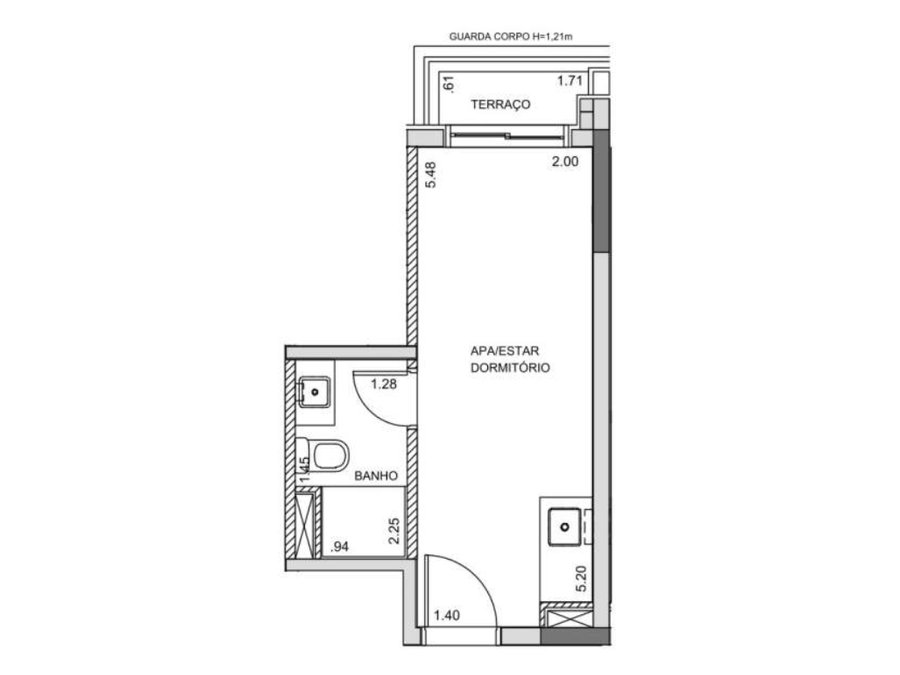
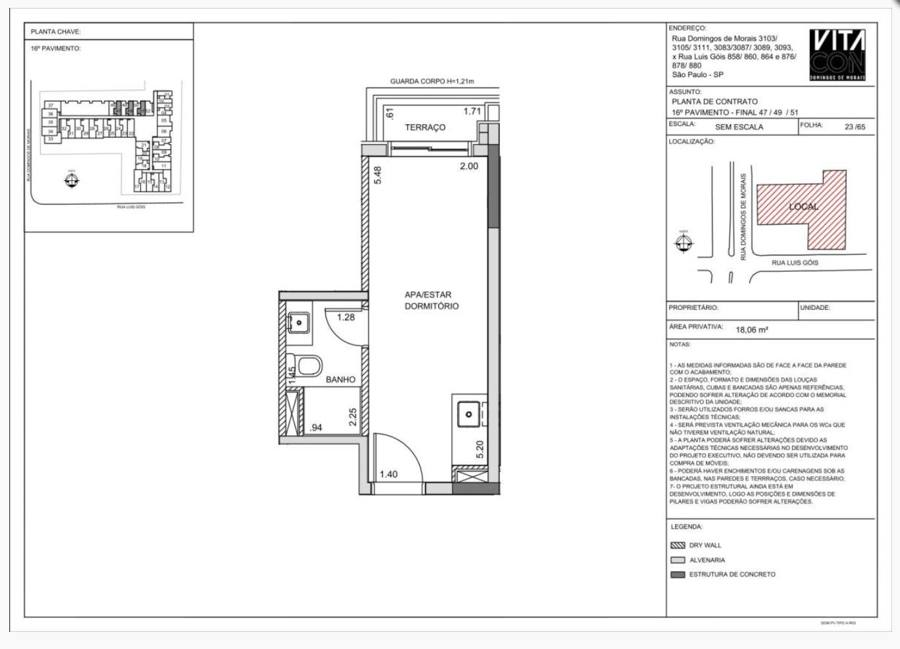
Atualiza unidades disponiveis do Vitacon Domingos de Morais (428, 627, 906, 1331, 1651)

Changed region(s): [[0.0, 0.0308, 0.9956, 0.9861], [0.9022, 0.9553, 0.9644, 0.9861], [0.9956, 0.0, 1.0, 0.0308]]

diff --git a/index.html b/index.html
@@ -714,49 +714,57 @@ footer{ background:var(--ink); color:rgba(255,255,255,0.75); padding:52px 0 28px
 
       <div class="unit-grid">
         <div class="unit-card" data-dest="R2V" data-quartos="1" data-suites="0" data-vagas="0" data-type="studio">
-          <img class="unit-plan" src="dm-plan104.jpg" alt="Planta Unidade 104 Vitacon Domingos de Morais" loading="lazy">
+          <img class="unit-plan" src="dm-plan428.jpg" alt="Planta Unidade 428 Vitacon Domingos de Morais" loading="lazy">
           <div class="unit-body">
-            <div class="unit-top"><span class="unit-type">R2V · 18,72 m²</span><span class="unit-badge">3% off</span></div>
-            <p class="unit-num">Unidade 104</p>
+            <div class="unit-top"><span class="unit-type">R2V · 30,25 m²</span><span class="unit-badge">10% off</span></div>
+            <p class="unit-num">Unidade 428</p>
             <p class="unit-flag">Studio com terraço</p>
-            <p class="unit-old">R$ 385.379,13</p>
-            <p class="unit-new">R$ 373.817,76</p>
-            <a class="unit-cta" href="https://wa.me/5511982380332?text=Quero%20saber%20mais%20sobre%20a%20Unidade%20104%20do%20Vitacon%20Domingos%20de%20Morais" target="_blank" rel="noopener">Quero saber mais</a>
+            <p class="unit-old">R$ 511.443,94</p>
+            <p class="unit-new">R$ 460.299,55</p>
+            <a class="unit-cta" href="https://wa.me/5511982380332?text=Quero%20saber%20mais%20sobre%20a%20Unidade%20428%20do%20Vitacon%20Domingos%20de%20Morais" target="_blank" rel="noopener">Quero saber mais</a>
           </div>
         </div>
         <div class="unit-card" data-dest="R2V" data-quartos="1" data-suites="0" data-vagas="0" data-type="studio">
-          <img class="unit-plan" src="dm-plan430.jpg" alt="Planta Unidade 430 Vitacon Domingos de Morais" loading="lazy">
+          <img class="unit-plan" src="dm-plan627.jpg" alt="Planta Unidade 627 Vitacon Domingos de Morais" loading="lazy">
           <div class="unit-body">
-            <div class="unit-top"><span class="unit-type">R2V · 30,25 m²</span><span class="unit-badge">8% off</span></div>
-            <p class="unit-num">Unidade 430</p>
-            <a class="unit-link" href="30,25m2.png" target="_blank" rel="noopener">Ver planta decorada ↗</a>
-            <p class="unit-flag">Terraço amplo</p>
-            <p class="unit-old">R$ 510.321,23</p>
-            <p class="unit-new">R$ 469.495,53</p>
-            <a class="unit-cta" href="https://wa.me/5511982380332?text=Quero%20saber%20mais%20sobre%20a%20Unidade%20430%20do%20Vitacon%20Domingos%20de%20Morais" target="_blank" rel="noopener">Quero saber mais</a>
+            <div class="unit-top"><span class="unit-type">R2V · 30,39 m²</span><span class="unit-badge">10% off</span></div>
+            <p class="unit-num">Unidade 627</p>
+            <p class="unit-flag">Studio com terraço</p>
+            <p class="unit-old">R$ 518.920,57</p>
+            <p class="unit-new">R$ 467.028,51</p>
+            <a class="unit-cta" href="https://wa.me/5511982380332?text=Quero%20saber%20mais%20sobre%20a%20Unidade%20627%20do%20Vitacon%20Domingos%20de%20Morais" target="_blank" rel="noopener">Quero saber mais</a>
           </div>
         </div>
         <div class="unit-card" data-dest="R2V" data-quartos="1" data-suites="0" data-vagas="0" data-type="studio">
-          <img class="unit-plan" src="dm-plan441.jpg" alt="Planta Unidade 441 Vitacon Domingos de Morais" loading="lazy">
+          <img class="unit-plan" src="dm-plan906.jpg" alt="Planta Unidade 906 Vitacon Domingos de Morais" loading="lazy">
           <div class="unit-body">
-            <div class="unit-top"><span class="unit-type">R2V · 18,06 m²</span><span class="unit-badge">3% off</span></div>
-            <p class="unit-num">Unidade 441</p>
-            <a class="unit-link" href="18,06M2.png" target="_blank" rel="noopener">Ver planta decorada ↗</a>
+            <div class="unit-top"><span class="unit-type">R2V · 32,98 m²</span><span class="unit-badge">10% off</span></div>
+            <p class="unit-num">Unidade 906</p>
             <p class="unit-flag">Studio com terraço</p>
-            <p class="unit-old">R$ 393.345,61</p>
-            <p class="unit-new">R$ 381.545,24</p>
-            <a class="unit-cta" href="https://wa.me/5511982380332?text=Quero%20saber%20mais%20sobre%20a%20Unidade%20441%20do%20Vitacon%20Domingos%20de%20Morais" target="_blank" rel="noopener">Quero saber mais</a>
+            <p class="unit-old">R$ 544.003,89</p>
+            <p class="unit-new">R$ 489.603,50</p>
+            <a class="unit-cta" href="https://wa.me/5511982380332?text=Quero%20saber%20mais%20sobre%20a%20Unidade%20906%20do%20Vitacon%20Domingos%20de%20Morais" target="_blank" rel="noopener">Quero saber mais</a>
+          </div>
+        </div>
+        <div class="unit-card" data-dest="R2V" data-quartos="1" data-suites="0" data-vagas="0" data-type="studio">
+          <img class="unit-plan" src="dm-plan1331.jpg" alt="Planta Unidade 1331 Vitacon Domingos de Morais" loading="lazy">
+          <div class="unit-body">
+            <div class="unit-top"><span class="unit-type">R2V · 30,32 m²</span><span class="unit-badge">10% off</span></div>
+            <p class="unit-num">Unidade 1331</p>
+            <p class="unit-flag">Studio com terraço</p>
+            <p class="unit-old">R$ 536.124,12</p>
+            <p class="unit-new">R$ 482.511,71</p>
+            <a class="unit-cta" href="https://wa.me/5511982380332?text=Quero%20saber%20mais%20sobre%20a%20Unidade%201331%20do%20Vitacon%20Domingos%20de%20Morais" target="_blank" rel="noopener">Quero saber mais</a>
           </div>
         </div>
         <div class="unit-card" data-dest="R2V" data-quartos="1" data-suites="0" data-vagas="0" data-type="studio">
           <img class="unit-plan" src="dm-plan1651.jpg" alt="Planta Unidade 1651 Vitacon Domingos de Morais" loading="lazy">
           <div class="unit-body">
-            <div class="unit-top"><span class="unit-type">R2V · 18,06 m²</span><span class="unit-badge">3% off</span></div>
+            <div class="unit-top"><span class="unit-type">R2V · 18,06 m²</span><span class="unit-badge">5% off</span></div>
             <p class="unit-num">Unidade 1651</p>
-            <a class="unit-link" href="18,06M2.png" target="_blank" rel="noopener">Ver planta decorada ↗</a>
             <p class="unit-flag">16º andar · com terraço</p>
-            <p class="unit-old">R$ 417.336,38</p>
-            <p class="unit-new">R$ 404.816,29</p>
+            <p class="unit-old">R$ 428.254,52</p>
+            <p class="unit-new">R$ 397.341,79</p>
             <a class="unit-cta" href="https://wa.me/5511982380332?text=Quero%20saber%20mais%20sobre%20a%20Unidade%201651%20do%20Vitacon%20Domingos%20de%20Morais" target="_blank" rel="noopener">Quero saber mais</a>
           </div>
         </div>
